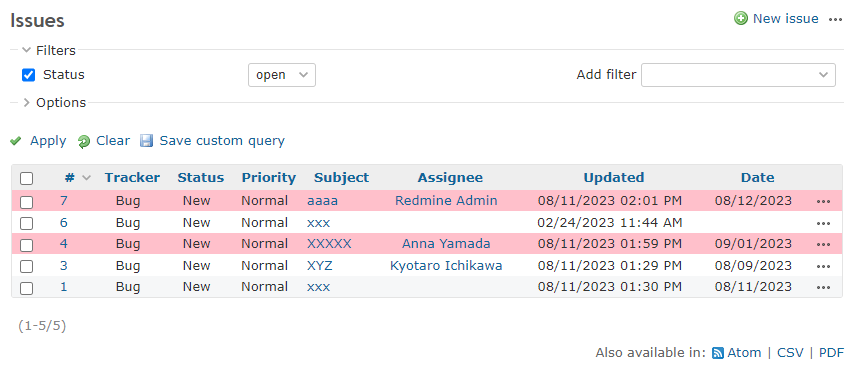
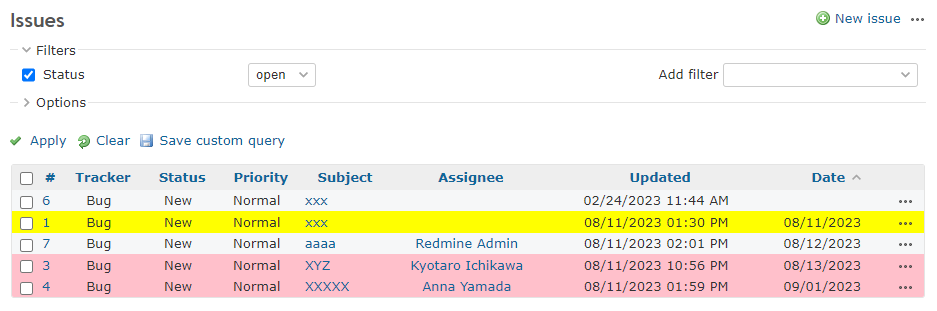
[カスタムフィールドの日付に応じて、チケットリストの背景色を変更] 過去と未来で色を変えるように変更

diff --git a/examples/0059.change_color_of_issue_list_by_date_custom_field/example.md b/examples/0059.change_color_of_issue_list_by_date_custom_field/example.md
@@ -3,8 +3,13 @@
 Change the background color of the issue list according to the date of the custom field.  
 カスタムフィールドの日付に応じて、チケットリストの背景色を変更します。
 
-In this example, if the date in custom field ID:1 is in the future, the background color is pink.  
-この例では、カスタムフィールドID:1 の日付が未来の場合、背景色をピンクにします。
+This example changes the background color depending on the date of the custom field ID:1.  
+この例では、カスタムフィールドID:1の日付によって背景色を変えています。
+
+* Pink for future  
+未来はピンク
+* Yellow for past  
+黄色は過去
 
 ## Setting
 
@@ -37,20 +42,20 @@ $(function() {
   const now = new Date();
   const nowDate = new Date(now.getFullYear(), now.getMonth(), now.getDate());
 
-  $('table.issues td.cf_1')
-    .filter(function() {
-      const str = $(this).text();
-      if (str === '') {
-        return false;
-      }
+  $('table.issues td.cf_1').each(function() {
+    const target = $(this);
+    const str = target.text();
+    if (str === '') {
+      return;
+    }
 
-      const date = new Date(str);
-      return date > nowDate;
-    })
-    .parent()
-    .css({
-      'background-color': 'pink'
-    });
+    const date = new Date(str);
+    if (date > nowDate) {
+      target.parent().css({ 'background-color': 'pink' });
+    } else if (date < nowDate) {
+      target.parent().css({ 'background-color': 'yellow' });
+    }
+  });
 });
 ```
 
